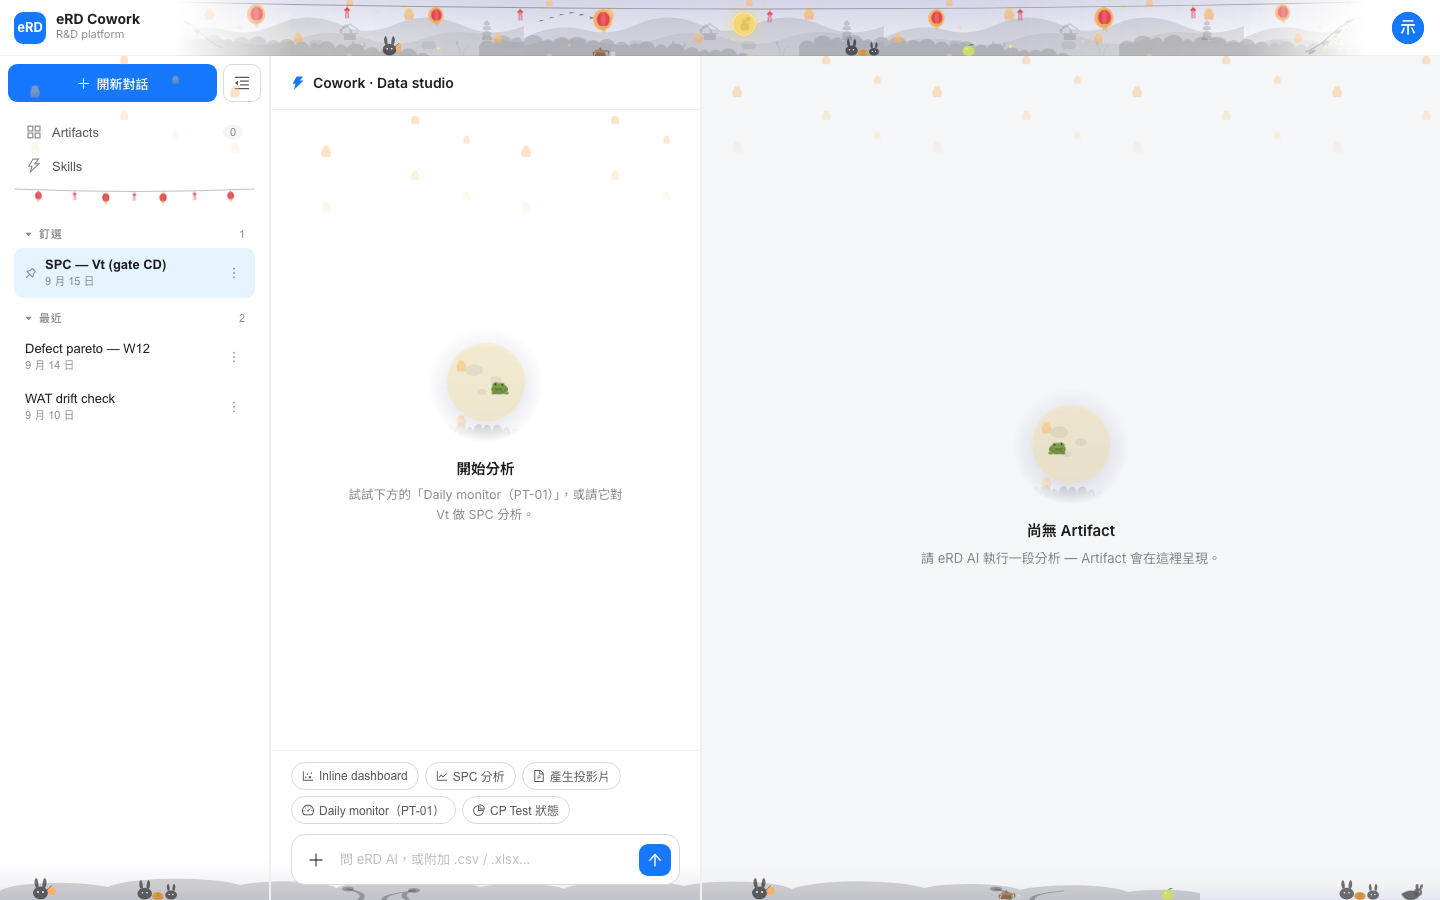
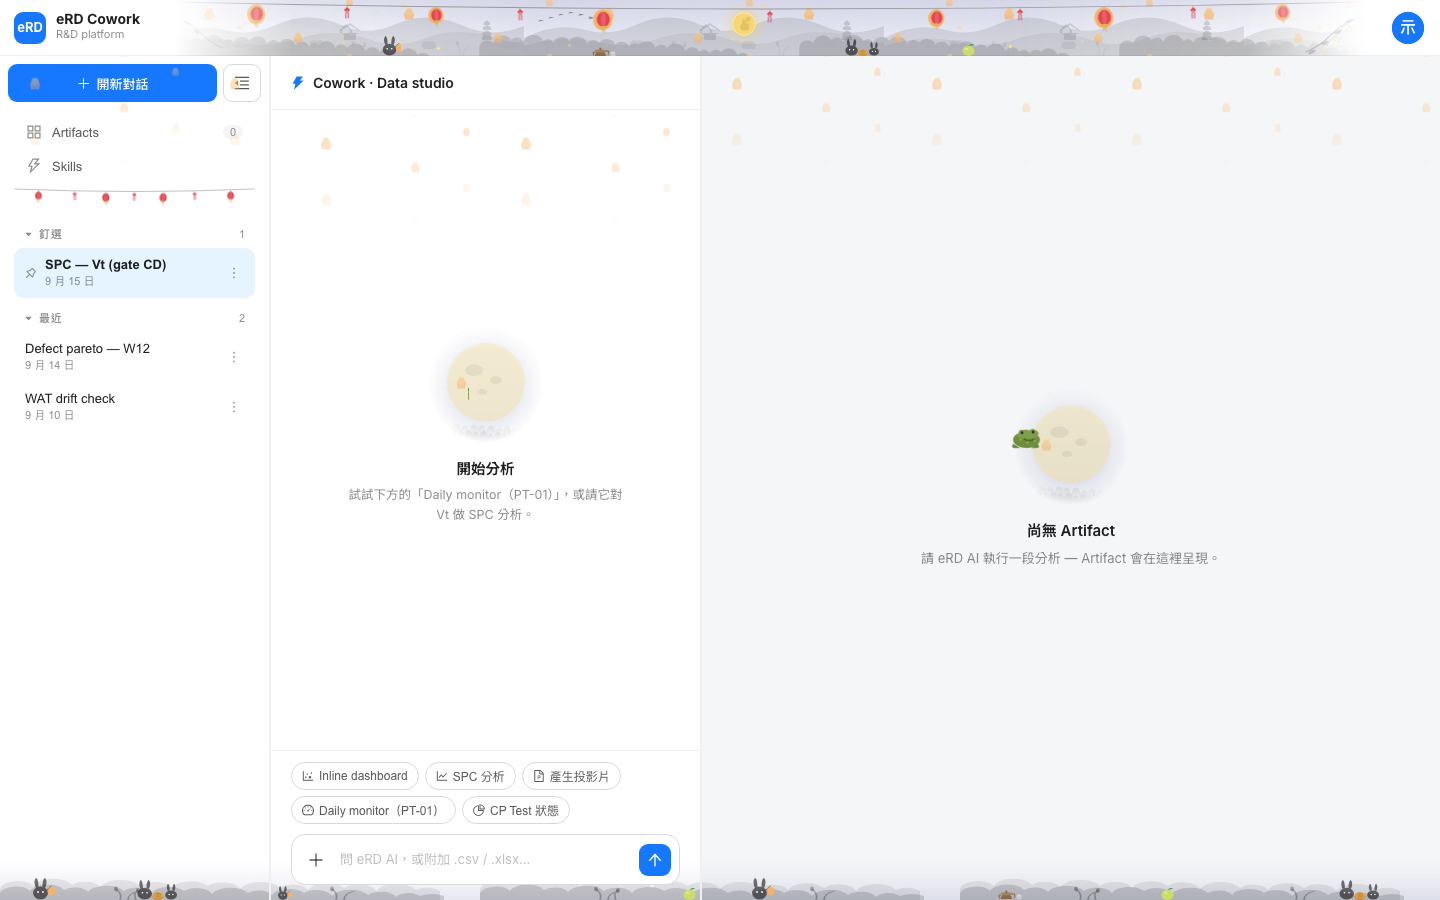
chore(shots): 第四版——地帶拼貼、遠近兩層、卡片兩側有東西

diff --git a/docs/festive-shots/README.md b/docs/festive-shots/README.md
@@ -1,6 +1,6 @@
 # 節慶裝飾截圖（2026-09-18 第二版，臨時 branch，看完即刪）
 
-對應 commit 5188418。第三版：地帶改成一整條，三個面的邊界接得上、一樣亮（40 到 45）。這一版改了兩件事：對話欄的地面從 composer 後面穿過（不再斷層）；圓窗留下，畫法改成同一個世界的，四個節日各一隻生物。
+對應最新 commit。第四版：地帶改成無縫拼貼、分遠近兩層，卡片兩側各站一件小東西（40 到 45 與整頁）。這一版改了兩件事：對話欄的地面從 composer 後面穿過（不再斷層）；圓窗留下，畫法改成同一個世界的，四個節日各一隻生物。
 
 ## 整頁
 
@@ -36,7 +36,7 @@
 | 錦鯉橫越 | ![](32-koi-crossing.png) |
 | 蟾蜍橫越 | ![](33-toad-crossing.png) |
 
-## 第三版：地帶在三個面的邊界接起來
+## 第四版：地帶拼貼、遠近兩層、卡片兩側有東西
 
 | | |
 |---|---|
